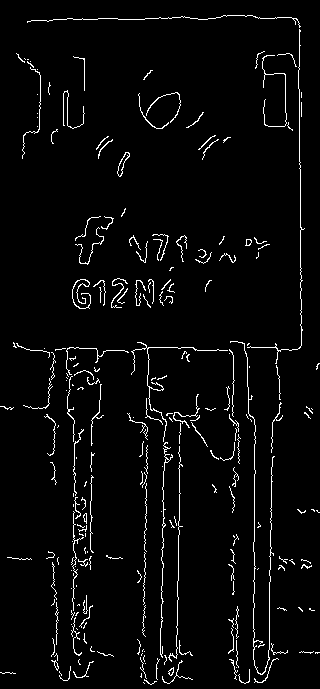
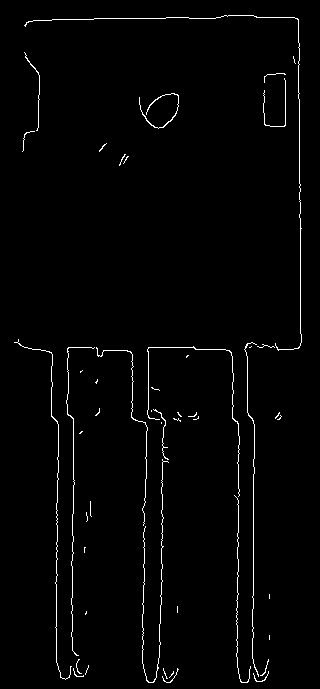
hahahahaaa crazyyyyy

diff --git a/canny.py b/canny.py
@@ -1,123 +1,123 @@
-# # =============================================================
-# # 📌 CHIP BOUNDARY DETECTION NOTEBOOK (CANNY + CONTOURS)
-# # Ready-to-run Colab notebook in a single cell
-# # =============================================================
-
-# # ---------------------------
-# # 🔧 1. Install Dependencies
-# # ---------------------------
-
-
-# import os
-# import cv2
-# import numpy as np
-
-
-
-# def canny(directory):
-#     files=os.listdir(directory)
-#     for file in files:
-#         if not (file.endswith(".png") or file.endswith(".jpg") or file.endswith(".jpeg")):
-#             continue
-#         img_path=os.path.join(directory,file)
-#         img=preprocess_image(img_path)
-#         final=auto_canny(img)
-#         cv2.imwrite(f"lemon_chicken/canny_{file}",final)
-#         print(f"Saved: canny_{file}")
-
-# def preprocess_image(img_path):
-#     img = cv2.imread(img_path)
-#     if img is None:
-#         raise ValueError(f"Cannot read image at path: {img_path}")
-#     gray = cv2.cvtColor(img, cv2.COLOR_BGR2GRAY)
-#     blurred = cv2.GaussianBlur(gray, (5, 5), 0)
-#     return blurred
-
-
-
-
-# # Auto-canny helper
-# def auto_canny(image, sigma=0.1):
-#     med = np.median(image)
-#     lower = int(max(0, (1.0 - sigma) * med))
-#     upper = int(min(255, (1.0 + sigma) * med))
-#     return cv2.Canny(image, lower, upper)
-
-# if __name__ == "__main__":
-#     canny("ic_test")  # Specify the directory containing test images
 # =============================================================
-# 📌 HIGH-QUALITY IC CANNY EDGE PIPELINE (BEST SETTINGS)
+# 📌 CHIP BOUNDARY DETECTION NOTEBOOK (CANNY + CONTOURS)
+# Ready-to-run Colab notebook in a single cell
 # =============================================================
+
+# ---------------------------
+# 🔧 1. Install Dependencies
+# ---------------------------
+
 
 import os
 import cv2
 import numpy as np
 
 
-# ---------------------------
-# 🔧 1. Batch Canny Function
-# ---------------------------
+
 def canny(directory):
-    os.makedirs("lemon_chicken", exist_ok=True)
-
-    files = os.listdir(directory)
+    files=os.listdir(directory)
     for file in files:
-        if not (file.lower().endswith(".png") or file.lower().endswith(".jpg") or file.lower().endswith(".jpeg")):
+        if not (file.endswith(".png") or file.endswith(".jpg") or file.endswith(".jpeg")):
             continue
-
-        img_path = os.path.join(directory, file)
-        img = preprocess_image(img_path)           # IC-optimized preprocessing
-        final = auto_canny(img)                    # Tuned Canny
-
-        cv2.imwrite(f"lemon_chicken/canny_{file}", final)
+        img_path=os.path.join(directory,file)
+        img=preprocess_image(img_path)
+        final=auto_canny(img)
+        cv2.imwrite(f"yuktha/canny_{file}",final)
         print(f"Saved: canny_{file}")
 
-
-# ---------------------------
-# 🧼 2. IC-Optimized Preprocessing
-# ---------------------------
 def preprocess_image(img_path):
     img = cv2.imread(img_path)
     if img is None:
         raise ValueError(f"Cannot read image at path: {img_path}")
-
-    # 1. Grayscale
     gray = cv2.cvtColor(img, cv2.COLOR_BGR2GRAY)
-
-    # 2. Adaptive contrast enhancement (BEST for pins)
-    clahe = cv2.createCLAHE(clipLimit=2.0, tileGridSize=(8,8))
-    gray = clahe.apply(gray)
-
-    # 3. Bilateral filtering (preserves pin edges)
-    gray = cv2.bilateralFilter(gray, d=9, sigmaColor=75, sigmaSpace=75)
-
-    # 4. Sharpening to enhance metallic pin edges
-    kernel = np.array([[0, -1, 0],
-                       [-1, 5,-1],
-                       [0, -1, 0]])
-    gray = cv2.filter2D(gray, -1, kernel)
-
-    return gray
+    blurred = cv2.GaussianBlur(gray, (5, 5), 0)
+    return blurred
 
 
-# ---------------------------
-# ⚙ 3. Tuned Canny for IC Images
-# ---------------------------
-def auto_canny(image, sigma=0.25):
-    """
-    Sigma = 0.25 works BEST for IC pins:
-      - Captures thin pin edges
-      - Avoids too much noise
-    """
+
+
+# Auto-canny helper
+def auto_canny(image, sigma=0.5):
     med = np.median(image)
     lower = int(max(0, (1.0 - sigma) * med))
     upper = int(min(255, (1.0 + sigma) * med))
-
     return cv2.Canny(image, lower, upper)
 
-
-# ---------------------------
-# ▶ 4. Run
-# ---------------------------
 if __name__ == "__main__":
-    canny("ic_test")   # Put your IC images in /ic_test
+    canny("uncertain")  # Specify the directory containing test images
+# =============================================================
+# 📌 HIGH-QUALITY IC CANNY EDGE PIPELINE (BEST SETTINGS)
+# =============================================================
+
+# import os
+# import cv2
+# import numpy as np
+
+
+# # ---------------------------
+# # 🔧 1. Batch Canny Function
+# # ---------------------------
+# def canny(directory):
+#     os.makedirs("lemon_chicken", exist_ok=True)
+
+#     files = os.listdir(directory)
+#     for file in files:
+#         if not (file.lower().endswith(".png") or file.lower().endswith(".jpg") or file.lower().endswith(".jpeg")):
+#             continue
+
+#         img_path = os.path.join(directory, file)
+#         img = preprocess_image(img_path)           # IC-optimized preprocessing
+#         final = auto_canny(img)                    # Tuned Canny
+
+#         cv2.imwrite(f"lemon_chicken/canny_{file}", final)
+#         print(f"Saved: canny_{file}")
+
+
+# # ---------------------------
+# # 🧼 2. IC-Optimized Preprocessing
+# # ---------------------------
+# def preprocess_image(img_path):
+#     img = cv2.imread(img_path)
+#     if img is None:
+#         raise ValueError(f"Cannot read image at path: {img_path}")
+
+#     # 1. Grayscale
+#     gray = cv2.cvtColor(img, cv2.COLOR_BGR2GRAY)
+
+#     # 2. Adaptive contrast enhancement (BEST for pins)
+#     clahe = cv2.createCLAHE(clipLimit=2.0, tileGridSize=(8,8))
+#     gray = clahe.apply(gray)
+
+#     # 3. Bilateral filtering (preserves pin edges)
+#     gray = cv2.bilateralFilter(gray, d=9, sigmaColor=75, sigmaSpace=75)
+
+#     # 4. Sharpening to enhance metallic pin edges
+#     kernel = np.array([[0, -1, 0],
+#                        [-1, 5,-1],
+#                        [0, -1, 0]])
+#     gray = cv2.filter2D(gray, -1, kernel)
+
+#     return gray
+
+
+# # ---------------------------
+# # ⚙ 3. Tuned Canny for IC Images
+# # ---------------------------
+# def auto_canny(image, sigma=0.25):
+#     """
+#     Sigma = 0.25 works BEST for IC pins:
+#       - Captures thin pin edges
+#       - Avoids too much noise
+#     """
+#     med = np.median(image)
+#     lower = int(max(0, (1.0 - sigma) * med))
+#     upper = int(min(255, (1.0 + sigma) * med))
+
+#     return cv2.Canny(image, lower, upper)
+
+
+# # ---------------------------
+# # ▶ 4. Run
+# # ---------------------------
+# if __name__ == "__main__":
+#     canny("ic_test")   # Put your IC images in /ic_test

diff --git a/llm.py b/llm.py
@@ -408,4 +408,4 @@ if __name__ == "__main__":
     # individual("•0000000000.png")
     # individual("uncertain/new2.png")
     # individual("retry_img/006.png")
-    main("pin_edges")
+    main("yuktha")
